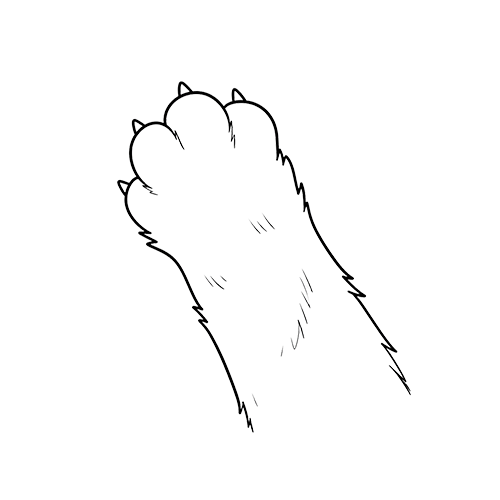
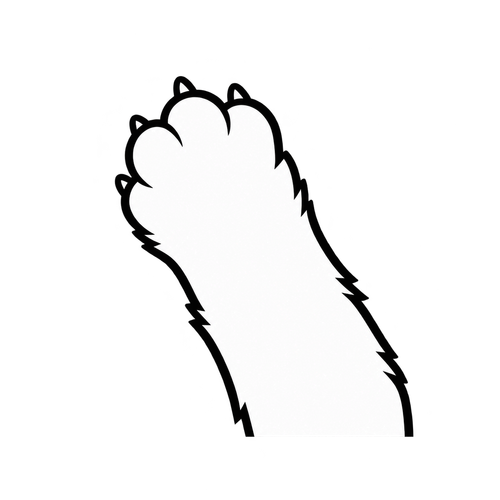
Tour: the swipe paw is the filled one, and no longer inverted
The old paw was thin black line-art on transparent, and every tour ghost
got flipped white to read on the dark wall. Flipping a thin outline
leaves a white hairline around nothing, which is what disappeared into a
bright poster — the Oregon Garden Resort card in the guest tour showed
almost no paw at all.

The new art is filled: white inside a heavy black outline. It carries its
own contrast either way round, so it ships as drawn — PAW_FILTER is a
pair of drop-shadows to lift it off the artwork, with no invert. The
finger keeps the old treatment; it is still line-art and still needs it.

Framing matches the old asset closely enough to be a drop-in (59.8% x
72.2% of the square vs 58.8% x 70.4%), so no step's ghostSize changes.
Resized to 500x500 like the rest of /tour.

diff --git a/src/components/tour/HandGhost.tsx b/src/components/tour/HandGhost.tsx
@@ -1,8 +1,10 @@
 import { useMemo } from 'react'
 
-// Hand/paw gesture hints for the tour. Rob's line-art is black on transparent; rendered
-// WHITE (invert) with a dark glow so it pops over the wall / any poster. Finger = tap /
-// double-tap / drag; cat paw = swipe. pointer-events:none; reduced motion → static frame.
+// Hand/paw gesture hints for the tour. Finger = tap / double-tap / drag; cat paw =
+// swipe. The finger is black line-art on transparent, rendered WHITE (invert) with a
+// dark glow so it pops over the wall / any poster. The paw is filled art — white
+// inside a heavy black outline — so it ships as drawn, shadow only (see PAW_FILTER).
+// pointer-events:none; reduced motion → static frame.
 //
 // The FINGERTIP sits at the middle of the box (the tour centers the box on the target).
 // Taps BLINK in and out (no grow/shrink) with a splash ripple; drag blinks on the target
@@ -15,6 +17,13 @@ const REDUCE = typeof window !== 'undefined'
 const FINGER = '/tour/finger-tap.png'
 const PAW = '/tour/cat-paw.png'
 const WHITE = 'invert(1) brightness(2) drop-shadow(0 0 9px rgba(0,0,0,0.6))'
+// The paw is NOT inverted. The finger is thin black line-art on transparent, so it
+// has to be flipped white to read at all; the paw art is a solid white fill inside a
+// heavy black outline, which carries its own contrast over a bright poster or the
+// dark wall alike. Inverting it would make a black paw that disappears on the wall —
+// and the old thin-line paw, flipped to a white outline with nothing inside, is
+// exactly what was getting lost against busy artwork. Shadow only, to lift it off.
+const PAW_FILTER = 'drop-shadow(0 2px 7px rgba(0,0,0,0.55)) drop-shadow(0 0 3px rgba(0,0,0,0.45))'
 const INK = 'rgba(255,255,255,0.96)'
 const GLOW = 'drop-shadow(0 0 6px rgba(0,0,0,0.6))'
 
@@ -44,7 +53,7 @@ export function HandGhost({ variant, size = 190 }: { variant: 'tap' | 'doubletap
     return (
       <div style={{ width: size, height: size, pointerEvents: 'none' }} aria-hidden>
         <style>{KEYFRAMES}</style>
-        <img src={PAW} alt="" draggable={false} style={{ width: '100%', height: '100%', objectFit: 'contain', filter: WHITE, animation: anim }} />
+        <img src={PAW} alt="" draggable={false} style={{ width: '100%', height: '100%', objectFit: 'contain', filter: PAW_FILTER, animation: anim }} />
       </div>
     )
   }
